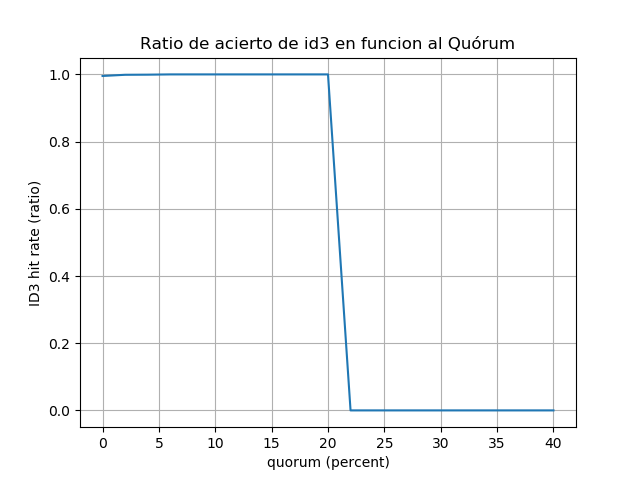
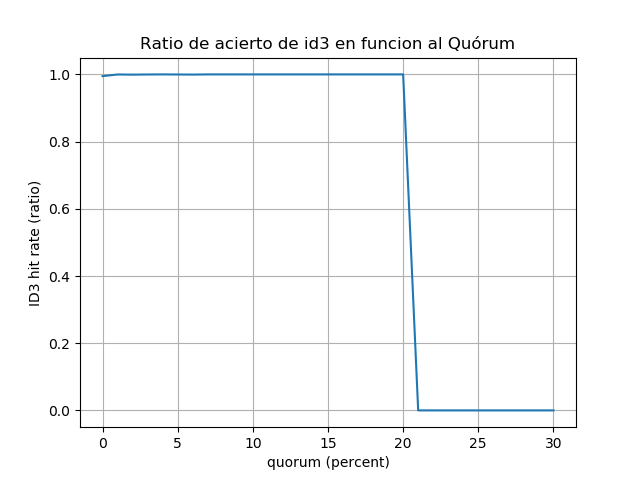
WIP: Todo funcionando BUG: No para la ejecución las graficas TODO: get_result recursivo hasta acertar

diff --git a/src/templates/testing_result.html b/src/templates/testing_result.html
@@ -44,6 +44,7 @@
 {% if vary == 'quorum' %}
     <section class="section">
         <div class="container is-fullhd">
+            <p class="is-size-2" style="text-align: center; padding-bottom: 20px">Gráficas Quorum Variado</p>
             <div class="notification" style="padding:20px">
                 <div class="columns">
                   <div class="column">
@@ -60,28 +61,16 @@
                   <div class="column">
                     <img src="../static/graphs/quorum_trunc_hit_rate.png">
                   </div>
-                  <div class="column">
-                    <img src="../static/graphs/quorum_none_hit_rate.png">
-                  </div>
                 </div>
             </div>
         </div>
     </section>
-{% else %}
+{% elif vary == 'naive' %}
   <section class="section">
         <div class="container is-fullhd">
-            <div class="notification" style="padding:20px">
-                <div class="columns">
-                  <div class="column">
+            <p class="is-size-2" style="text-align: center; padding-bottom: 20px">Gráficas K Variado</p>
+            <div class="notification" style="padding:20px; display: flex; justify-content: center;">
                     <img src="../static/graphs/k_hit_rate.png">
-                  </div>
-                  <div class="column">
-                    <img src="../static/graphs/k_trunc_hit_rate.png">
-                  </div>
-                  <div class="column">
-                    <img src="../static/graphs/k_none_hit_rate.png">
-                  </div>
-                </div>
             </div>
         </div>
     </section>
@@ -90,6 +79,7 @@
 
 <section class="section">
     <div class="container is-fullhd">
+        <p class="is-size-2" style="text-align: center; padding-bottom: 20px">Resultados</p>
         <div class="notification" style="padding:20px">
             <textarea class="textarea" name="textarea" style="width: 100%; height: 70vh" disabled>{{result}}</textarea>
         </div>

diff --git a/src/testing/__init__.py b/src/testing/__init__.py
@@ -1,4 +1,4 @@
-from id3 import create_tree
+from id3 import get_results
 import matplotlib.pyplot as plt
 import numpy as np
 import matplotlib.patches as mpatches
@@ -9,9 +9,9 @@ def test(dataset, train_percent, shuffle, trees, vary, quorum_min, quorum_max, q
     if vary == "quorum":
         hit_percent = {}
         leaf_count = {}
-        leaf_count2 = {"id3": {}, "trunc": {}, "none": {}}
+        leaf_count2 = {"id3": {}, "trunc": {}}
         leaf_hit_percent = {}
-        leaf_hit_percent2 = {"id3": {}, "trunc": {}, "none": {}}
+        leaf_hit_percent2 = {"id3": {}, "trunc": {}}
         for quorum_vary in range(int(quorum_min), int(quorum_max)+1, int(quorum_interval)):
             print("Quorum", quorum_vary)
 
@@ -23,44 +23,35 @@ def test(dataset, train_percent, shuffle, trees, vary, quorum_min, quorum_max, q
             trunc_count_acc = 0
             trunc_hit_percent_acc = 0
             trunc_empty_count = 0
-            none_count_acc = 0
-            none_hit_percent_acc = 0
-            none_empty_count = 0
+
             for i in range(int(trees)):
-                info = get_results(dataset, train_percent, quorum_vary, quorum_quorum_type, quorum_k, shuffle)
+                result, info = get_results(dataset, train_percent, quorum_vary, quorum_quorum_type, quorum_k, shuffle, 0)
+                if info is None:
+                    return None
                 hit_percent_acc += info["hit_percent"]
                 id3_count_acc += info["id3_count"]
                 id3_hit_percent_acc += info["id3_hit_percent"]
                 trunc_count_acc += info["trunc_count"]
                 trunc_hit_percent_acc += info["trunc_hit_percent"]
-                none_count_acc += info["none_count"]
-                none_hit_percent_acc += info["none_hit_percent"]
                 if int(info["id3_count"]) == 0:
                     id3_empty_count += 1
                 if int(info["trunc_count"]) == 0:
                     trunc_empty_count += 1
-                if int(info["none_count"]) == 0:
-                    none_empty_count += 1
 
             # Se almacena la media del resultado
             hit_percent[quorum_vary] = hit_percent_acc / int(trees)
             leaf_count[quorum_vary] = {
                 "id3": id3_count_acc/int(trees),
-                "trunc": trunc_count_acc/int(trees),
-                "none": none_count_acc/int(trees)}
+                "trunc": trunc_count_acc/int(trees)}
             leaf_count2["id3"][quorum_vary] = id3_count_acc/int(trees)
             leaf_count2["trunc"][quorum_vary] = trunc_count_acc/int(trees)
-            leaf_count2["none"][quorum_vary] = none_count_acc/int(trees)
             leaf_hit_percent[quorum_vary] = {
                 "id3": 0 if int(trees) == id3_empty_count else id3_hit_percent_acc/(int(trees)-id3_empty_count),
-                "trunc": 0 if int(trees) == trunc_empty_count else trunc_hit_percent_acc/(int(trees)-trunc_empty_count),
-                "none": 0 if int(trees) == none_empty_count else none_hit_percent_acc/(int(trees)-none_empty_count)}
+                "trunc": 0 if int(trees) == trunc_empty_count else trunc_hit_percent_acc/(int(trees)-trunc_empty_count)}
             leaf_hit_percent2["id3"][quorum_vary] = 0 if int(trees) == id3_empty_count else id3_hit_percent_acc/(
                     int(trees)-id3_empty_count)
             leaf_hit_percent2["trunc"][quorum_vary] = 0 if int(trees) == trunc_empty_count else trunc_hit_percent_acc/(
                     int(trees)-trunc_empty_count)
-            leaf_hit_percent2["none"][quorum_vary] = 0 if int(trees) == none_empty_count else none_hit_percent_acc/(
-                    int(trees)-none_empty_count)
 
         # =========== Gráficas ===========
         # Ratio de acierto
@@ -70,8 +61,7 @@ def test(dataset, train_percent, shuffle, trees, vary, quorum_min, quorum_max, q
         # Cuenta de hojas
         save_graph(int(quorum_min), int(quorum_max), int(quorum_interval), "quorum (" + quorum_quorum_type + ")",
                    "no. hojas (int)", "Número de hojas en funcion al quorum", "quorum_leaf_count",
-                   list(leaf_count2["id3"].values()), list(leaf_count2["trunc"].values()),
-                   list(leaf_count2["none"].values()))
+                   list(leaf_count2["id3"].values()), list(leaf_count2["trunc"].values()))
         # Ratio de acierto por tipo de hoja
         save_graph(int(quorum_min), int(quorum_max), int(quorum_interval), "quorum (" + quorum_quorum_type + ")",
                    "ID3 hit rate (ratio)", "Ratio de acierto de id3 en funcion al Quórum",
@@ -79,15 +69,11 @@ def test(dataset, train_percent, shuffle, trees, vary, quorum_min, quorum_max, q
         save_graph(int(quorum_min), int(quorum_max), int(quorum_interval), "quorum (" + quorum_quorum_type + ")",
                    "truncated leafs hit rate (ratio)", "Ratio de acierto de hojas truncadas en funcion al Quórum",
                    "quorum_trunc_hit_rate", list(leaf_hit_percent2["trunc"].values()))
-        save_graph(int(quorum_min), int(quorum_max), int(quorum_interval), "quorum (" + quorum_quorum_type + ")",
-                   "failed leafs hit rate (ratio)", "Ratio de acierto de hojas fallidas en funcion al Quórum",
-                   "quorum_none_hit_rate", list(leaf_hit_percent2["none"].values()))
+
     else:
         hit_percent = {}
         leaf_count = {}
-        leaf_count2 = {"id3": {}, "trunc": {}, "none": {}}
         leaf_hit_percent = {}
-        leaf_hit_percent2 = {"id3": {}, "trunc": {}, "none": {}}
         for k_vary in range(int(k_min), int(k_max) + 1):
             print("K", k_vary)
 
@@ -99,81 +85,42 @@ def test(dataset, train_percent, shuffle, trees, vary, quorum_min, quorum_max, q
             trunc_count_acc = 0
             trunc_hit_percent_acc = 0
             trunc_empty_count = 0
-            none_count_acc = 0
-            none_hit_percent_acc = 0
-            none_empty_count = 0
+
             for i in range(int(trees)):
-                info = get_results(dataset, train_percent, k_quorum, k_quorum_type, k_vary, shuffle)
+                result, info = get_results(dataset, train_percent, k_quorum, k_quorum_type, k_vary, shuffle, 0)
+                if info is None:
+                    return None
                 hit_percent_acc += info["hit_percent"]
                 id3_count_acc += info["id3_count"]
                 id3_hit_percent_acc += info["id3_hit_percent"]
                 trunc_count_acc += info["trunc_count"]
                 trunc_hit_percent_acc += info["trunc_hit_percent"]
-                none_count_acc += info["none_count"]
-                none_hit_percent_acc += info["none_hit_percent"]
                 if int(info["id3_count"]) == 0:
                     id3_empty_count += 1
                 if int(info["trunc_count"]) == 0:
                     trunc_empty_count += 1
-                if int(info["none_count"]) == 0:
-                    none_empty_count += 1
 
             # Se almacena la media del resultado
             hit_percent[k_vary] = hit_percent_acc / int(trees)
             leaf_count[k_vary] = {
                 "id3": id3_count_acc / int(trees),
-                "trunc": trunc_count_acc / int(trees),
-                "none": none_count_acc / int(trees)}
-            leaf_count2["id3"][k_vary] = id3_count_acc/int(trees)
-            leaf_count2["trunc"][k_vary] = trunc_count_acc/int(trees)
-            leaf_count2["none"][k_vary] = none_count_acc/int(trees)
+                "trunc": trunc_count_acc / int(trees)}
             leaf_hit_percent[k_vary] = {
-                "id3": 0 if int(trees) == id3_empty_count else id3_hit_percent_acc / (int(trees) - id3_empty_count),
+                "id3": 0 if int(trees) == id3_empty_count else id3_hit_percent_acc / (
+                        int(trees) - id3_empty_count),
                 "trunc": 0 if int(trees) == trunc_empty_count else trunc_hit_percent_acc / (
-                            int(trees) - trunc_empty_count),
-                "none": 0 if int(trees) == none_empty_count else none_hit_percent_acc / (int(trees) - none_empty_count)}
-            leaf_hit_percent2["id3"][k_vary] = 0 if int(trees) == id3_empty_count else id3_hit_percent_acc/(
-                    int(trees)-id3_empty_count)
-            leaf_hit_percent2["trunc"][k_vary] = 0 if int(trees) == trunc_empty_count else trunc_hit_percent_acc/(
-                    int(trees)-trunc_empty_count)
-            leaf_hit_percent2["none"][k_vary] = 0 if int(trees) == none_empty_count else none_hit_percent_acc/(
-                    int(trees)-none_empty_count)
+                            int(trees) - trunc_empty_count)}
 
         # =========== Gráficas ===========
         # Ratio de acierto
         save_graph(int(k_min), int(k_max), 1, "K (int)",
                    "hit rate (ratio)", "Ratio de acierto en funcion a K", "k_hit_rate",
                    list(hit_percent.values()))
-        # Cuenta de hojas
-        # save_graph(int(k_min), int(k_max), 1, "K (int)",
-        #            "no. hojas (int)", "Número de hojas en funcion a K", "k_leaf_count",
-        #            list(leaf_count2["id3"].values()), list(leaf_count2["trunc"].values()),
-        #            list(leaf_count2["none"].values()))
-
-        # Ratio de acierto por tipo de hoja
-        save_graph(int(k_min), int(k_max), 1, "K (int)",
-                   "truncated leafs hit rate (ratio)", "Ratio de acierto de hojas truncadas en funcion a K",
-                   "k_trunc_hit_rate", list(leaf_hit_percent2["trunc"].values()))
-        save_graph(int(k_min), int(k_max), 1, "K (int)",
-                   "failed leafs hit rate (ratio)", "Ratio de acierto de hojas fallidas en funcion a K",
-                   "k_none_hit_rate", list(leaf_hit_percent2["none"].values()))
-        # save_graph(int(k_min), int(k_max), 1, "K (int)",
-        #            "ID3 hit rate (ratio)", "Ratio de acierto de id3 en funcion a K",
-        #            "k_id3_hit_rate", list(leaf_hit_percent2["id3"].values()))
 
     return str(hit_percent) + "\n\n" + str(leaf_count) + "\n\n" + str(leaf_hit_percent)
 
 
-def get_results(dataset, train_percent, quorum, quorum_type, k, shuffle):
-    # Dado que a veces no se puede clasificar, se reintenta hasta conseguirse
-    try:
-        result, info = create_tree(dataset, train_percent, quorum, quorum_type, k, shuffle)
-    except:
-        return get_results(dataset, train_percent, quorum, quorum_type, k, shuffle)
-    return info
-
-
-def save_graph(x1, x2, x3, xlabel, ylabel, title, filename, y1, y2=None, y3=None):
+def save_graph(x1, x2, x3, xlabel, ylabel, title, filename, y1, y2=None):
     # Data for plotting
     t = np.arange(x1, x2+1, x3)
 
@@ -182,12 +129,9 @@ def save_graph(x1, x2, x3, xlabel, ylabel, title, filename, y1, y2=None, y3=None
 
     if y2 is not None:
         ax.plot(t, y2)
-    if y3 is not None:
-        ax.plot(t, y3)
         orange_patch = mpatches.Patch(color='orange', label='Truncada')
-        green_patch = mpatches.Patch(color='green', label='ID3')
-        blue_patch = mpatches.Patch(color='blue', label='None')
-        plt.legend(handles=[orange_patch, green_patch, blue_patch])
+        blue_patch = mpatches.Patch(color='blue', label='ID3')
+        plt.legend(handles=[orange_patch, blue_patch])
 
     ax.set(xlabel=xlabel, ylabel=ylabel, title=title)
     ax.grid()

diff --git a/src/app.py b/src/app.py
@@ -1,5 +1,5 @@
-from flask import Flask,render_template, request
-from id3 import create_tree
+from flask import Flask, render_template, request
+from id3 import get_results
 from testing import test
 
 app = Flask(__name__)
@@ -28,7 +28,7 @@ def form():
             shuffle = False
 
         # Llamada al algoritmo
-        result, info = create_tree(data["dataset"], data["train"], data["quorum"], data["quorum_type"], data["k"], shuffle)
+        result, info = get_results(data["dataset"], data["train"], data["quorum"], data["quorum_type"], data["k"], shuffle, 0)
         return render_template('result.html', result=result)
     else:
         return render_template('form.html')
@@ -50,7 +50,12 @@ def testing():
         result = test(data["dataset"], data["train"], shuffle, data["trees"], data["vary"], data["quorum_min"],
                       data["quorum_max"], data["quorum_quorum_type"], data["quorum_interval"], data["quorum_k"],
                       data["k_min"], data["k_max"], data["k_quorum"], data["k_quorum_type"])
-        return render_template('testing_result.html', result=result, vary=data["vary"])
+        if result is None:
+            error = "Parece que los datos de entrenamiento no son suficientes para los datos de prueba."
+            error += " Pruebe un porcentaje de entrenamiento mayor o a barajar el conjunto."
+            return render_template('testing_result.html', result=result, vary="Fail")
+        else:
+            return render_template('testing_result.html', result=result, vary=data["vary"])
     else:
         return render_template('testing_form.html')
 

diff --git a/src/id3/__init__.py b/src/id3/__init__.py
@@ -141,6 +141,21 @@ def create_tree(dataset, train_percent, quorum, quorum_type, k, shuffle):
                     "trunc_count": trunc, "trunc_hit_percent": trunc_hit_percent}
 
 
+def get_results(dataset, train_percent, quorum, quorum_type, k, shuffle, acc):
+    if acc > 19:
+        error = "Parece que los datos de entrenamiento no son suficientes para los datos de prueba."
+        error += " Pruebe un porcentaje de entrenamiento mayor o a barajar el conjunto."
+        return error, None
+    # Dado que a veces no se puede clasificar, se reintenta hasta conseguirse
+    try:
+        result, info = create_tree(dataset, train_percent, quorum, quorum_type, k, shuffle)
+    except:
+        inc_acc = acc + 1
+        return get_results(dataset, train_percent, quorum, quorum_type, k, shuffle, inc_acc)
+
+    return result, info
+
+
 def classify_helper(tree, example):
     classification = tree.classify(example)
 
